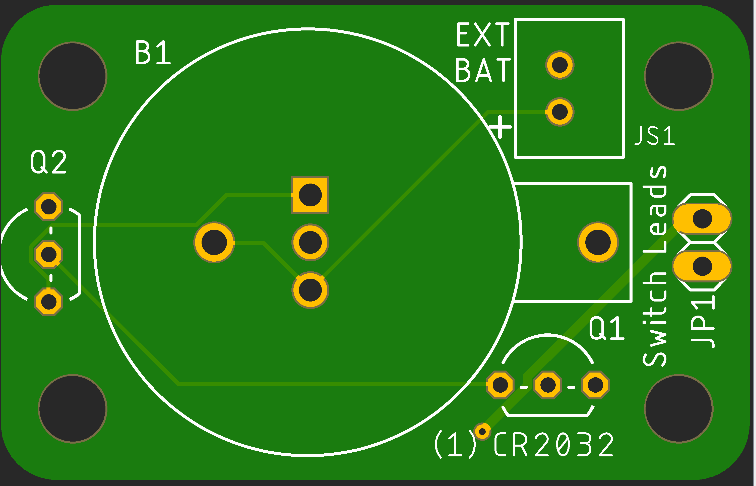
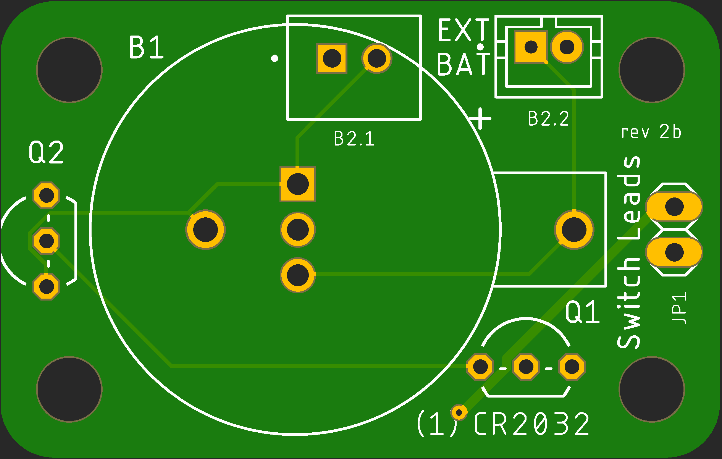
fixed coin cell polarity, new PH con

diff --git a/board/readme.md b/board/readme.md
@@ -8,12 +8,17 @@ Support for various battery options has been implemented via an external battery
 
 ## Status
 
-| Date       | Status                                             |
-| ---------- | -------------------------------------------------- |
-| 2023-01-12 | All done for now.                                  |
-| 2023-01-05 | Boards received and assembled. More parts ordered. |
-| 2022-12-29 | Boards ordered.                                    |
-| 2022-12-27 | First posting. Untested.                           |
+|    Date    | Status                                                      |
+| :--------: | ----------------------------------------------------------- |
+| 2023-02-25 | Revising for polarity issue & new JST PH connector. Rev 2b. |
+| 2023-01-12 | All done for now.                                           |
+| 2023-01-05 | Boards received and assembled. More parts ordered.          |
+| 2022-12-29 | Boards ordered.                                             |
+| 2022-12-27 | First posting. Untested.                                    |
+
+**2022-02-25**
+
+The Eagle model for the coin cell was wrong and the polarity was backwards so that has been fixed. A JST PH-2 connector (B2.2) option was added. The XH-2 connector (B2.1) was moved into the coin cell (B1) area making them mutually exclusive. Rev 2b.
 
 **2021-01-12**
 
@@ -54,7 +59,8 @@ The first will use the coin cell holder, the second will use a JST XH 2.5mm or s
 | ~~Coin Cell Holder (B1)~~            | ~~[Keystone 1026](https://www.digikey.com/short/f35w9mv4) ([datasheet](https://www.keyelco.com/userAssets/file/M65p3.pdf))~~ | Doesn't fit                                                  |
 | CR2032 Coin Cells (B1)               |                                                              | 3V nominal                                                   |
 | **External Battery Option**          |                                                              |                                                              |
-| External Battery Connector           | JST [XH header](https://www.digikey.com/short/9hf4mnvj) 2-position, 2.5mm pitch, straight |                                                              |
+| External Battery Connector B2.1      | JST [XH header](https://www.digikey.com/short/9hf4mnvj) 2-position, 2.5mm pitch, straight |                                                              |
+| External Battery Connector B2.2      | JST [PH header](https://www.digikey.com/short/wp55373q) 2-position, 2.0mm pitch, straight |                                                              |
 | Battery Holder Pigtail Connector     | JST [XH housing](https://www.digikey.com/short/7fpfp333) 2-position, 2.5mm pitch |                                                              |
 | Pigtail Connector Contacts (x 2)     | JST [XH contact](https://www.digikey.com/short/d91c10q9)     |                                                              |
 

diff --git a/readme.md b/readme.md
@@ -8,12 +8,17 @@ This project aims to create a capacitive touch switch that uses a CR2032 button 
 
 |    Date    | Status                                                       |
 | :--------: | ------------------------------------------------------------ |
+| 2023-02-25 | Revising for polarity issue & new JST PH connector. Rev 2b.  |
 | 2023-01-12 | All done for now.                                            |
 | 2023-01-06 | Boards received, testing underway.                           |
 | 2022-12-29 | Boards ordered.                                              |
 | 2022-12-27 | Driver circuit simulated. Bench testing and transistor selection pending. |
 | 2022-12-23 | Working to support multiple battery options.                 |
 | 2022-12-21 | First posting. Untested.                                     |
+
+**2022-02-25**
+
+The Eagle model for the coin cell was wrong and the polarity was backwards so that has been fixed. A JST PH-2 connector (B2.2) option was added. The XH-2 connector (B2.1) was moved into the coin cell (B1) area making them mutually exclusive. Rev 2b.
 
 **2021-01-12**
 
@@ -84,7 +89,7 @@ Short Jumper B to switch from Momentary mode to Toggle mode.
 
 ## Battery Options
 
-A JST XH socket has been added to provide the option of using an alternate battery pack. Because the voltages vary different values for R1 may be necessary.
+Provisions for JST XH and PH headers have been added to facilitate the option of using an alternate battery pack. The 2.5mm pitch XH connectors handle bigger wire and are easier to crimp. The 2.0mm pitch PH connectors are common and can be plugged into Feather style microcontroller boards. Because the voltages vary different values for R1 may be necessary.
 
 | Batteries Used                             | Max/Nom/Min Voltages |
 | ------------------------------------------ | :------------------: |
